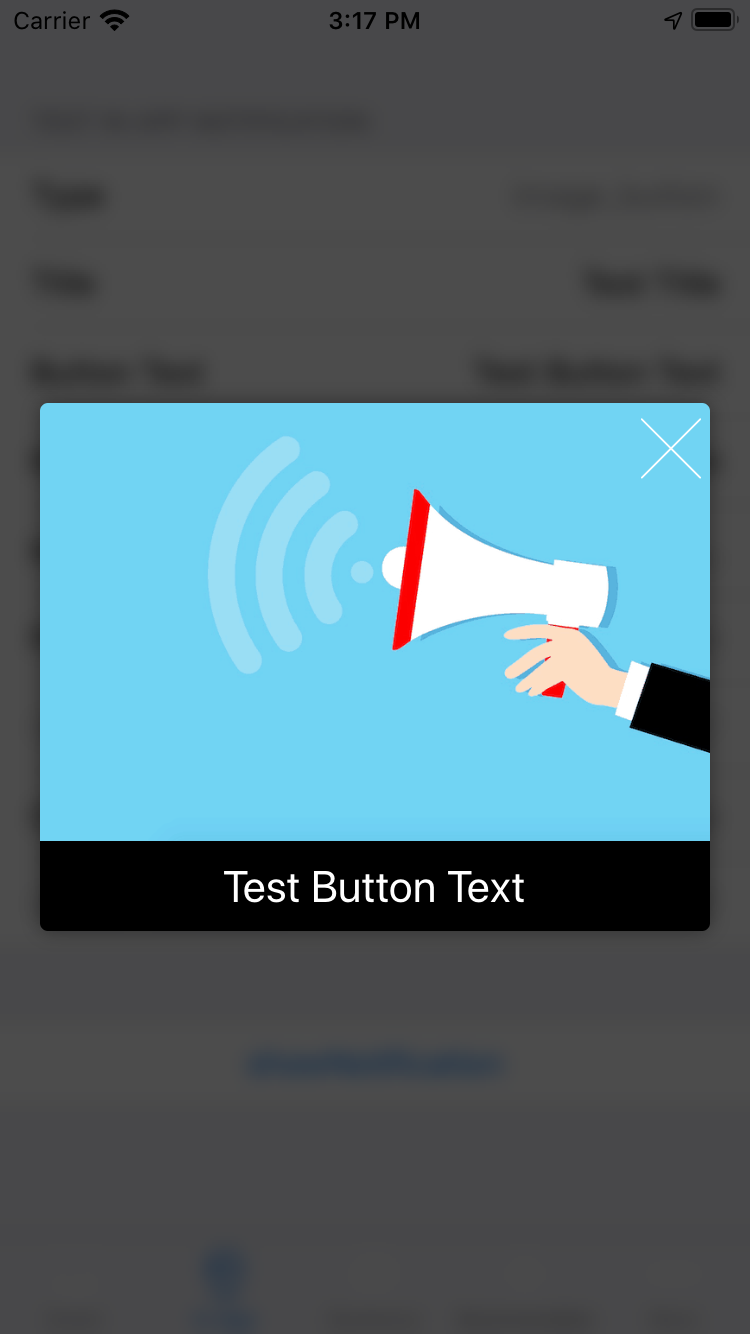
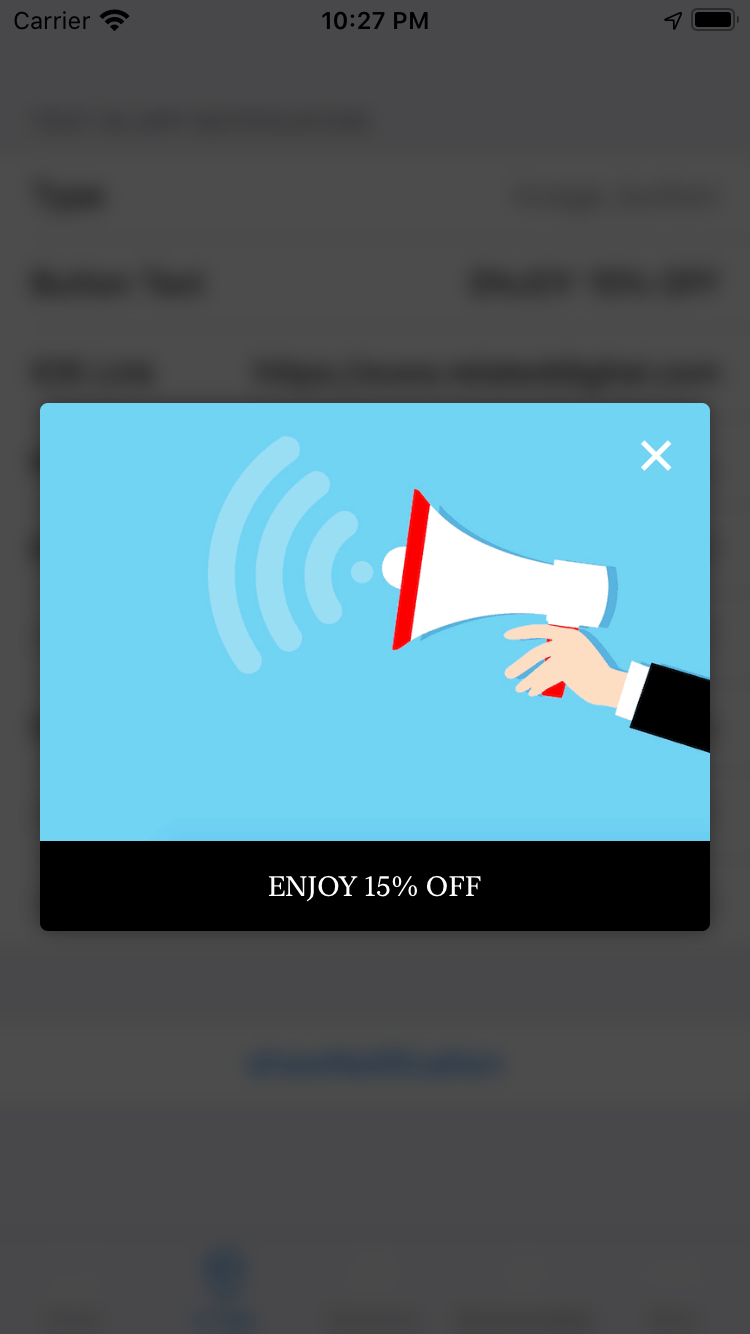
inappnotification screenshots change

Changed region(s): [[0.3067, 0.6454, 0.7053, 0.6762], [0.4293, 0.0, 0.5827, 0.0307], [0.8587, 0.3073, 0.92, 0.3688]]

diff --git a/Example/VisilabsIOS/ViewControllers/InAppViewController.swift b/Example/VisilabsIOS/ViewControllers/InAppViewController.swift
@@ -48,6 +48,7 @@ class InAppViewController: FormViewController {
         let messageType = VisilabsInAppNotificationType.init(rawValue: (self.form.rowBy(tag: VisilabsInAppNotification.PayloadKey.messageType) as PickerInputRow<String>?)!.value! as String)!
         switch messageType {
         case .mini:
+            self.form.rowBy(tag: VisilabsInAppNotification.PayloadKey.messageTitle)?.hidden = false
             self.form.rowBy(tag: VisilabsInAppNotification.PayloadKey.messageBody)?.hidden = true
             self.form.rowBy(tag: VisilabsInAppNotification.PayloadKey.buttonText)?.hidden = true
             self.form.rowBy(tag: VisilabsInAppNotification.PayloadKey.imageUrlString)?.hidden = true
@@ -62,6 +63,7 @@ class InAppViewController: FormViewController {
             self.form.rowBy(tag: "miniIcon")?.hidden = false
             break
         case .full, .image_text_button, .smile_rating, .nps:
+            self.form.rowBy(tag: VisilabsInAppNotification.PayloadKey.messageTitle)?.hidden = false
             self.form.rowBy(tag: VisilabsInAppNotification.PayloadKey.messageBody)?.hidden = false
             self.form.rowBy(tag: VisilabsInAppNotification.PayloadKey.buttonText)?.hidden = false
             self.form.rowBy(tag: VisilabsInAppNotification.PayloadKey.imageUrlString)?.hidden = false
@@ -72,10 +74,11 @@ class InAppViewController: FormViewController {
             self.form.rowBy(tag: VisilabsInAppNotification.PayloadKey.backGround)?.hidden = false
             self.form.rowBy(tag: VisilabsInAppNotification.PayloadKey.closeButtonColor)?.hidden = false
             self.form.rowBy(tag: VisilabsInAppNotification.PayloadKey.buttonTextColor)?.hidden = false
-            self.form.rowBy(tag: VisilabsInAppNotification.PayloadKey.buttonColor)?.hidden = true
+            self.form.rowBy(tag: VisilabsInAppNotification.PayloadKey.buttonColor)?.hidden = false
             self.form.rowBy(tag: "miniIcon")?.hidden = true
             break
         case.full_image:
+            self.form.rowBy(tag: VisilabsInAppNotification.PayloadKey.messageTitle)?.hidden = true
             self.form.rowBy(tag: VisilabsInAppNotification.PayloadKey.messageBody)?.hidden = true
             self.form.rowBy(tag: VisilabsInAppNotification.PayloadKey.buttonText)?.hidden = true
             self.form.rowBy(tag: VisilabsInAppNotification.PayloadKey.imageUrlString)?.hidden = false
@@ -90,6 +93,7 @@ class InAppViewController: FormViewController {
             self.form.rowBy(tag: "miniIcon")?.hidden = true
             break
         case.image_button:
+            self.form.rowBy(tag: VisilabsInAppNotification.PayloadKey.messageTitle)?.hidden = true
             self.form.rowBy(tag: VisilabsInAppNotification.PayloadKey.messageBody)?.hidden = true
             self.form.rowBy(tag: VisilabsInAppNotification.PayloadKey.buttonText)?.hidden = false
             self.form.rowBy(tag: VisilabsInAppNotification.PayloadKey.imageUrlString)?.hidden = false
@@ -100,7 +104,7 @@ class InAppViewController: FormViewController {
             self.form.rowBy(tag: VisilabsInAppNotification.PayloadKey.backGround)?.hidden = false
             self.form.rowBy(tag: VisilabsInAppNotification.PayloadKey.closeButtonColor)?.hidden = false
             self.form.rowBy(tag: VisilabsInAppNotification.PayloadKey.buttonTextColor)?.hidden = false
-            self.form.rowBy(tag: VisilabsInAppNotification.PayloadKey.buttonColor)?.hidden = true
+            self.form.rowBy(tag: VisilabsInAppNotification.PayloadKey.buttonColor)?.hidden = false
             self.form.rowBy(tag: "miniIcon")?.hidden = true
             break
         }
